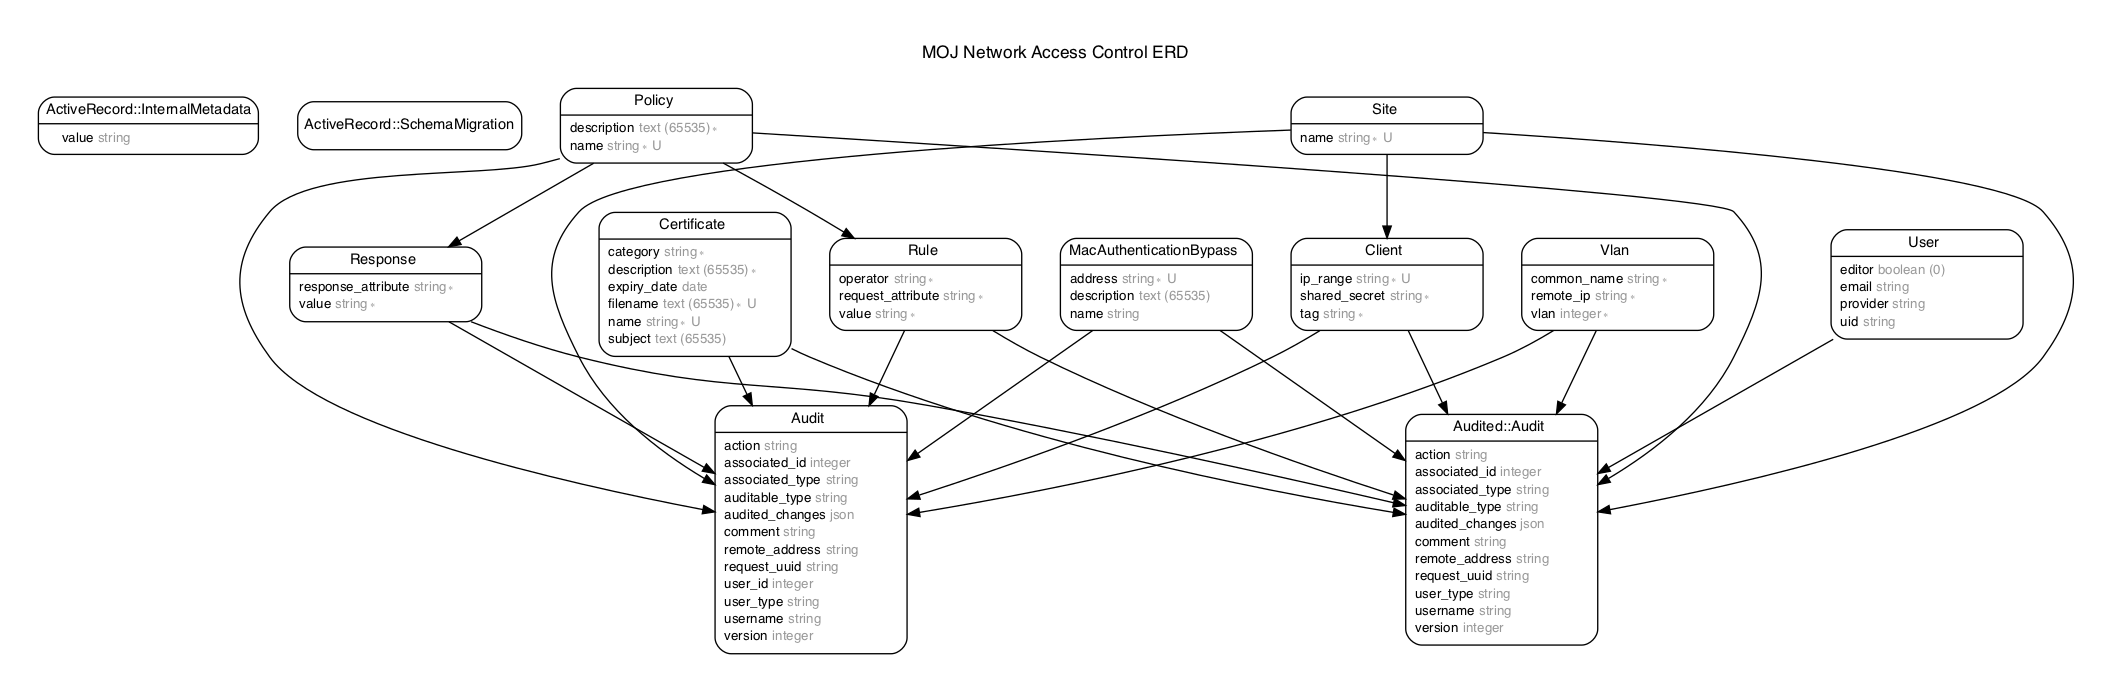
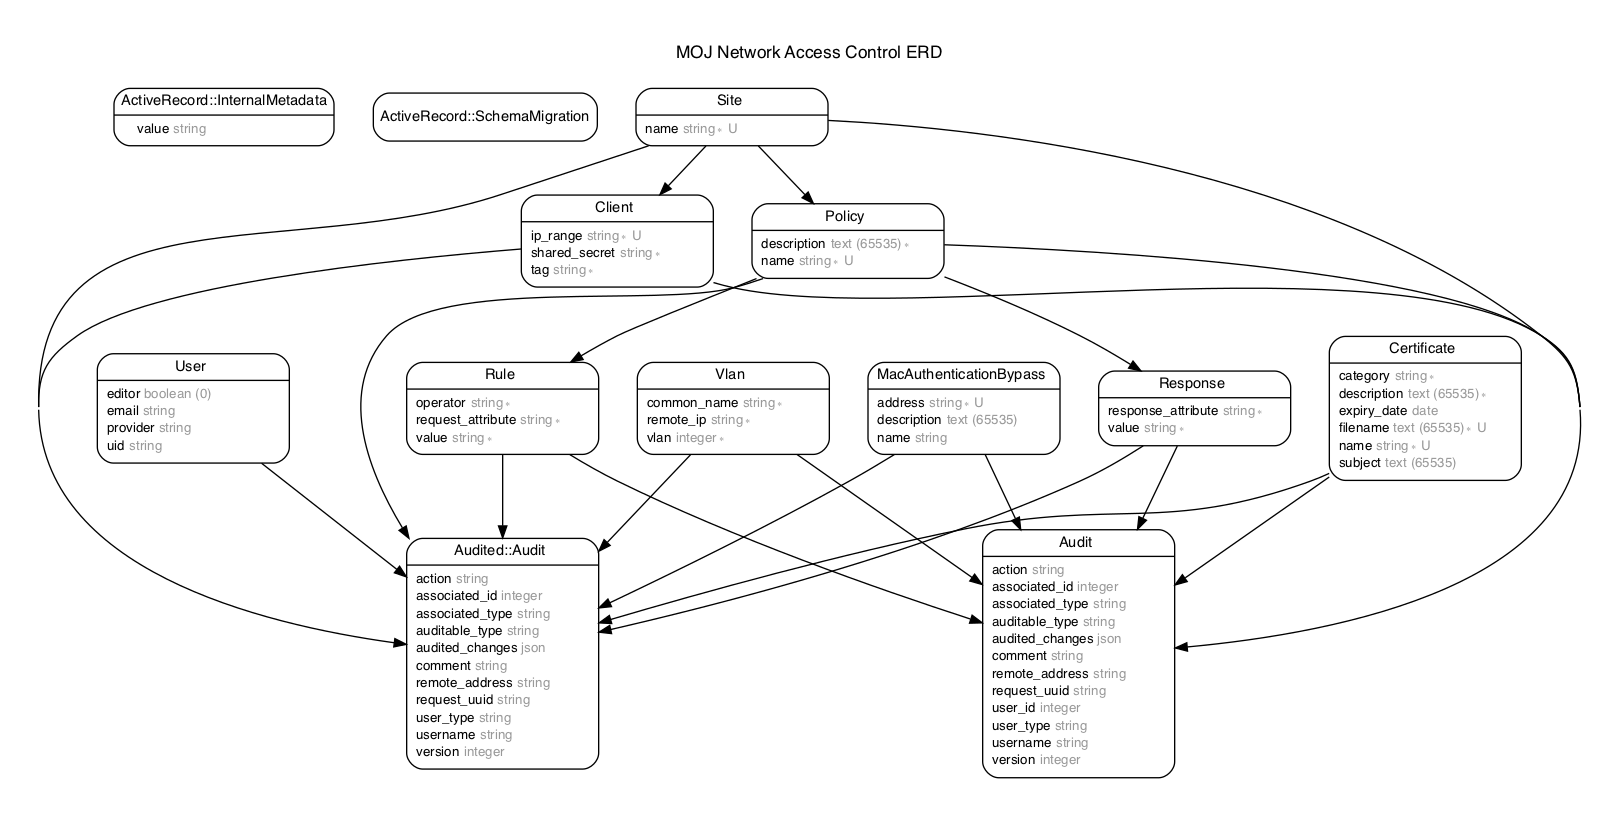
Update policy model to have many sites

diff --git a/db/schema.rb b/db/schema.rb
@@ -10,7 +10,7 @@
 #
 # It's strongly recommended that you check this file into your version control system.
 
-ActiveRecord::Schema.define(version: 2021_07_30_142649) do
+ActiveRecord::Schema.define(version: 2021_08_11_105405) do
 
   create_table "audits", charset: "utf8", force: :cascade do |t|
     t.integer "auditable_id"
@@ -93,6 +93,8 @@ ActiveRecord::Schema.define(version: 2021_07_30_142649) do
     t.string "name", null: false
     t.datetime "created_at", precision: 6, null: false
     t.datetime "updated_at", precision: 6, null: false
+    t.bigint "policy_id"
+    t.index ["policy_id"], name: "index_sites_on_policy_id"
   end
 
   create_table "users", charset: "utf8", force: :cascade do |t|

diff --git a/spec/models/policy_spec.rb b/spec/models/policy_spec.rb
@@ -12,4 +12,5 @@ describe Policy, type: :model do
   it { is_expected.to validate_uniqueness_of(:name).case_insensitive }
   it { is_expected.to have_many(:rules) }
   it { is_expected.to have_many(:responses) }
+  it { is_expected.to have_many(:sites) }
 end

diff --git a/db/migrate/20210811105405_add_policies_to_sites_table.rb b/db/migrate/20210811105405_add_policies_to_sites_table.rb
@@ -1,0 +1,7 @@
+class AddPoliciesToSitesTable < ActiveRecord::Migration[6.1]
+  def change
+    change_table :sites do |t|
+      t.belongs_to :policy
+    end
+  end
+end

diff --git a/app/models/policy.rb b/app/models/policy.rb
@@ -4,6 +4,7 @@ class Policy < ApplicationRecord
 
   has_many :rules, dependent: :destroy
   has_many :responses, dependent: :destroy
+  has_many :sites
 
   audited
 end
